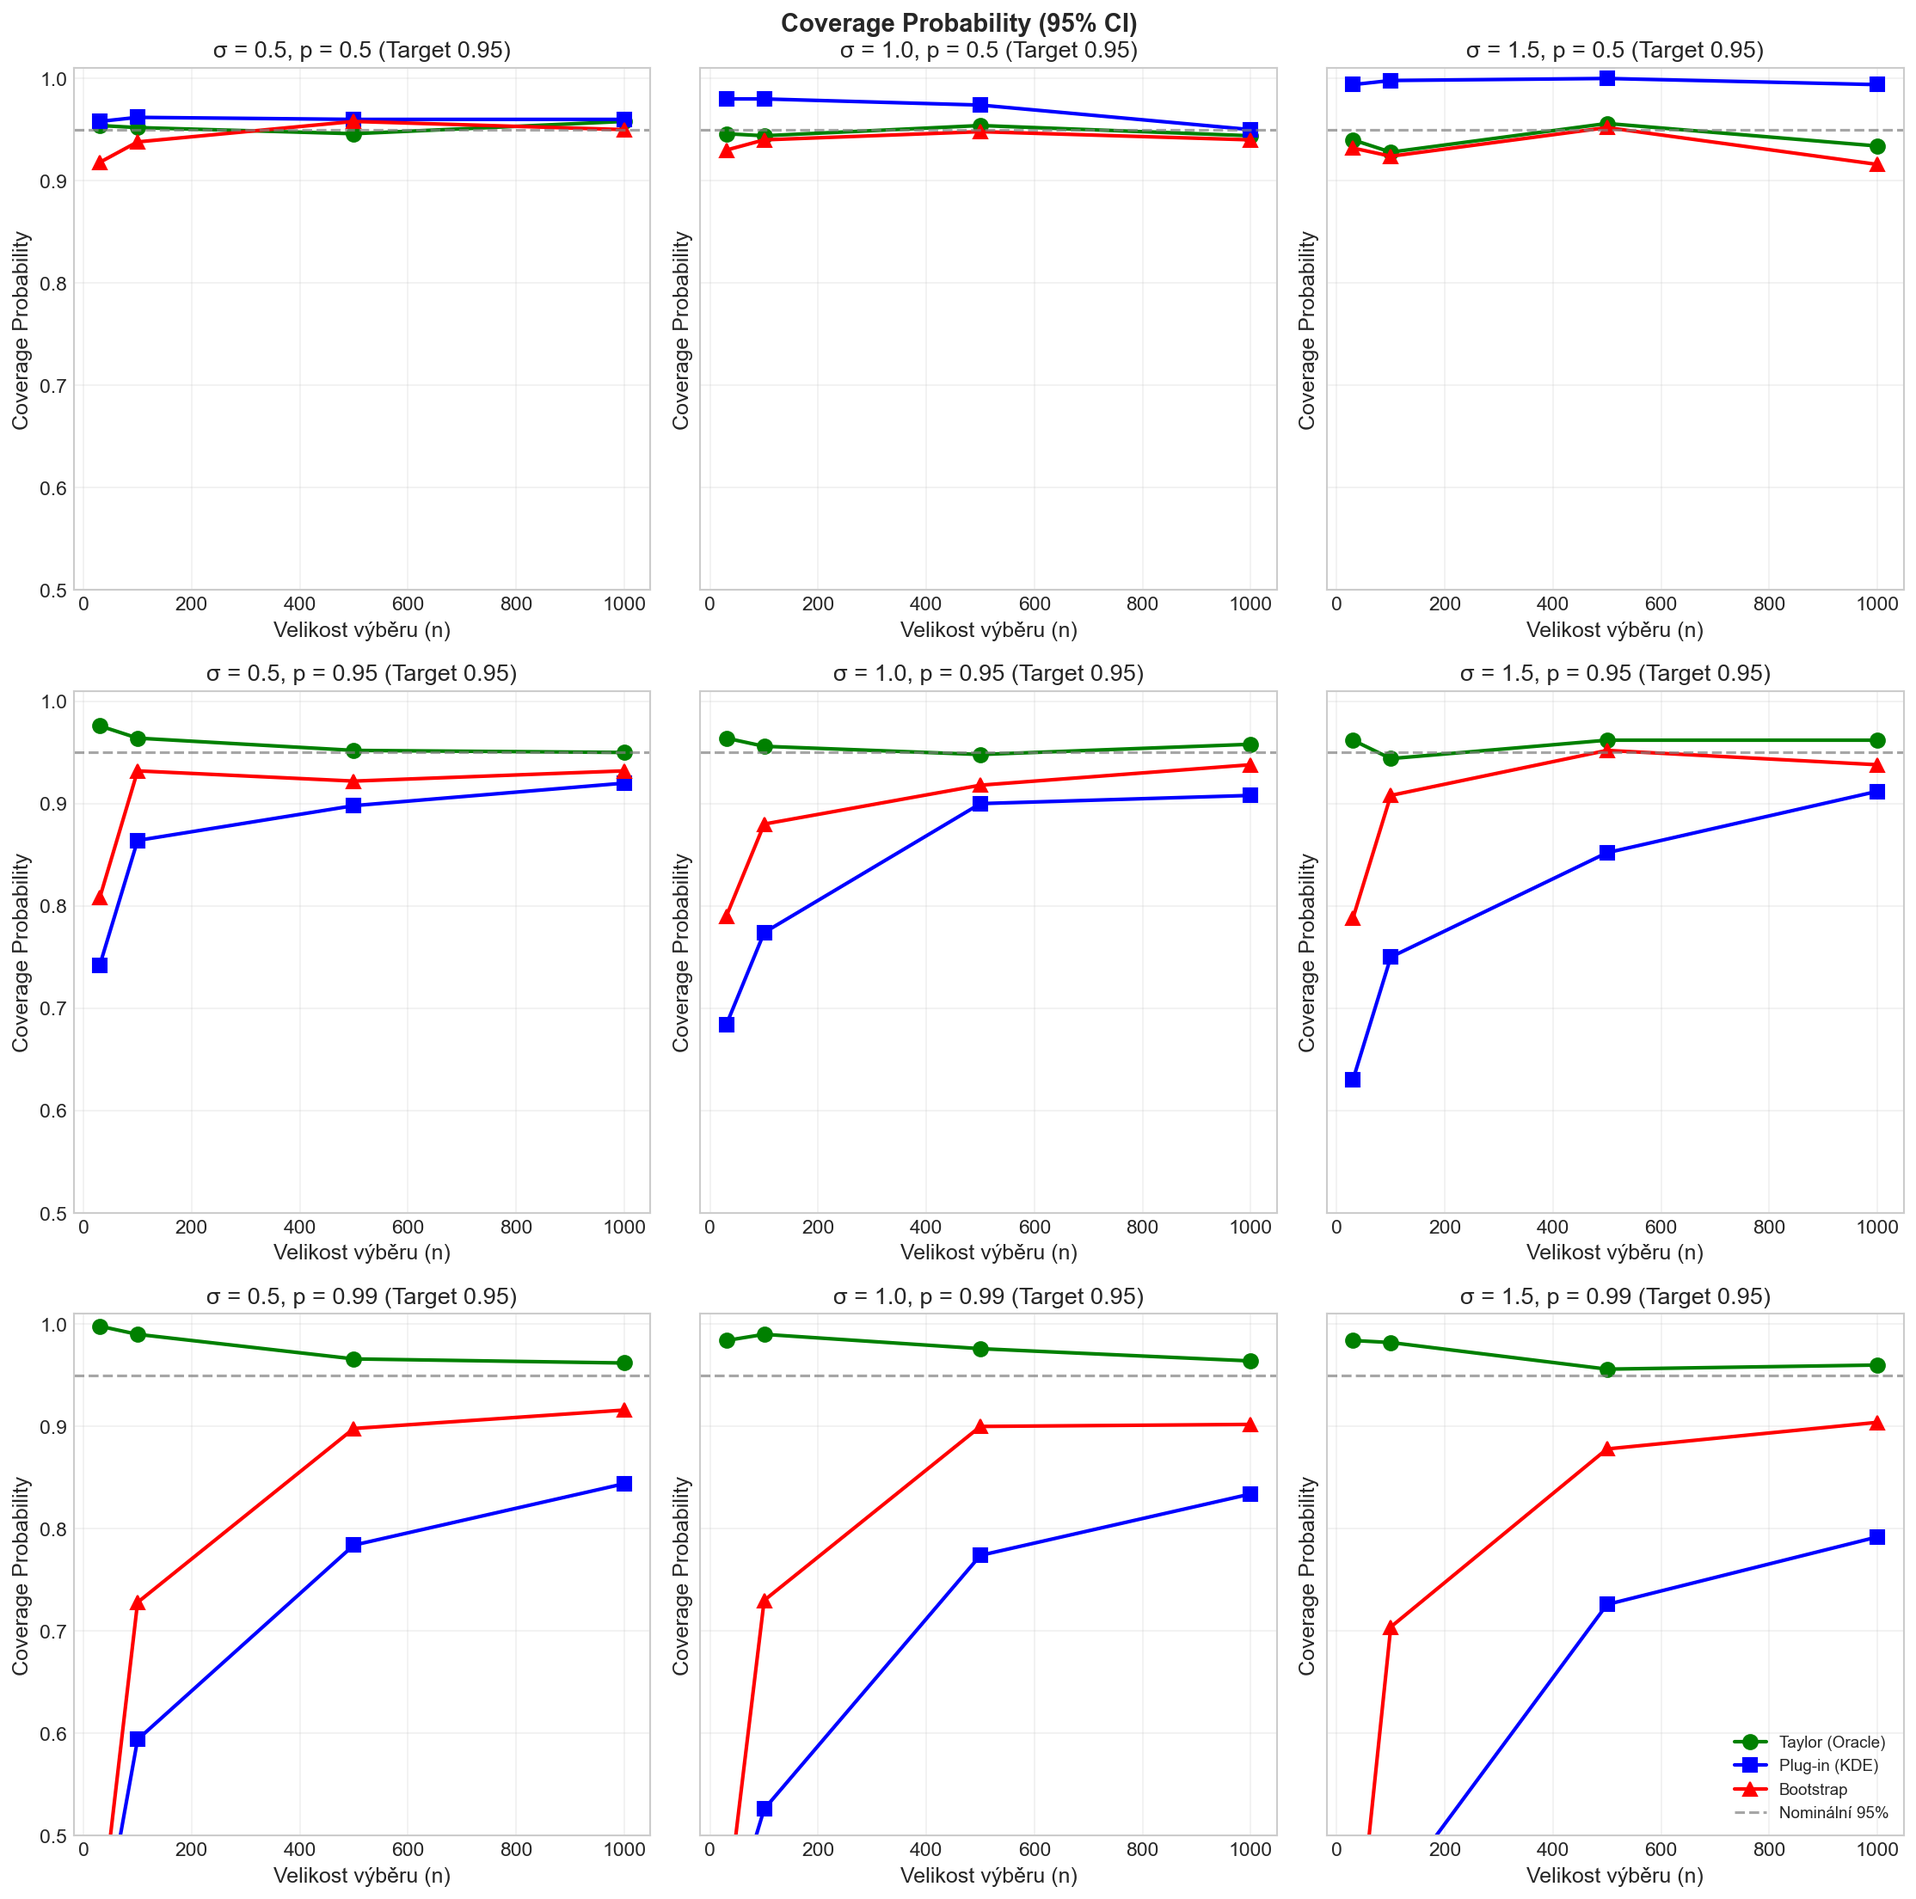
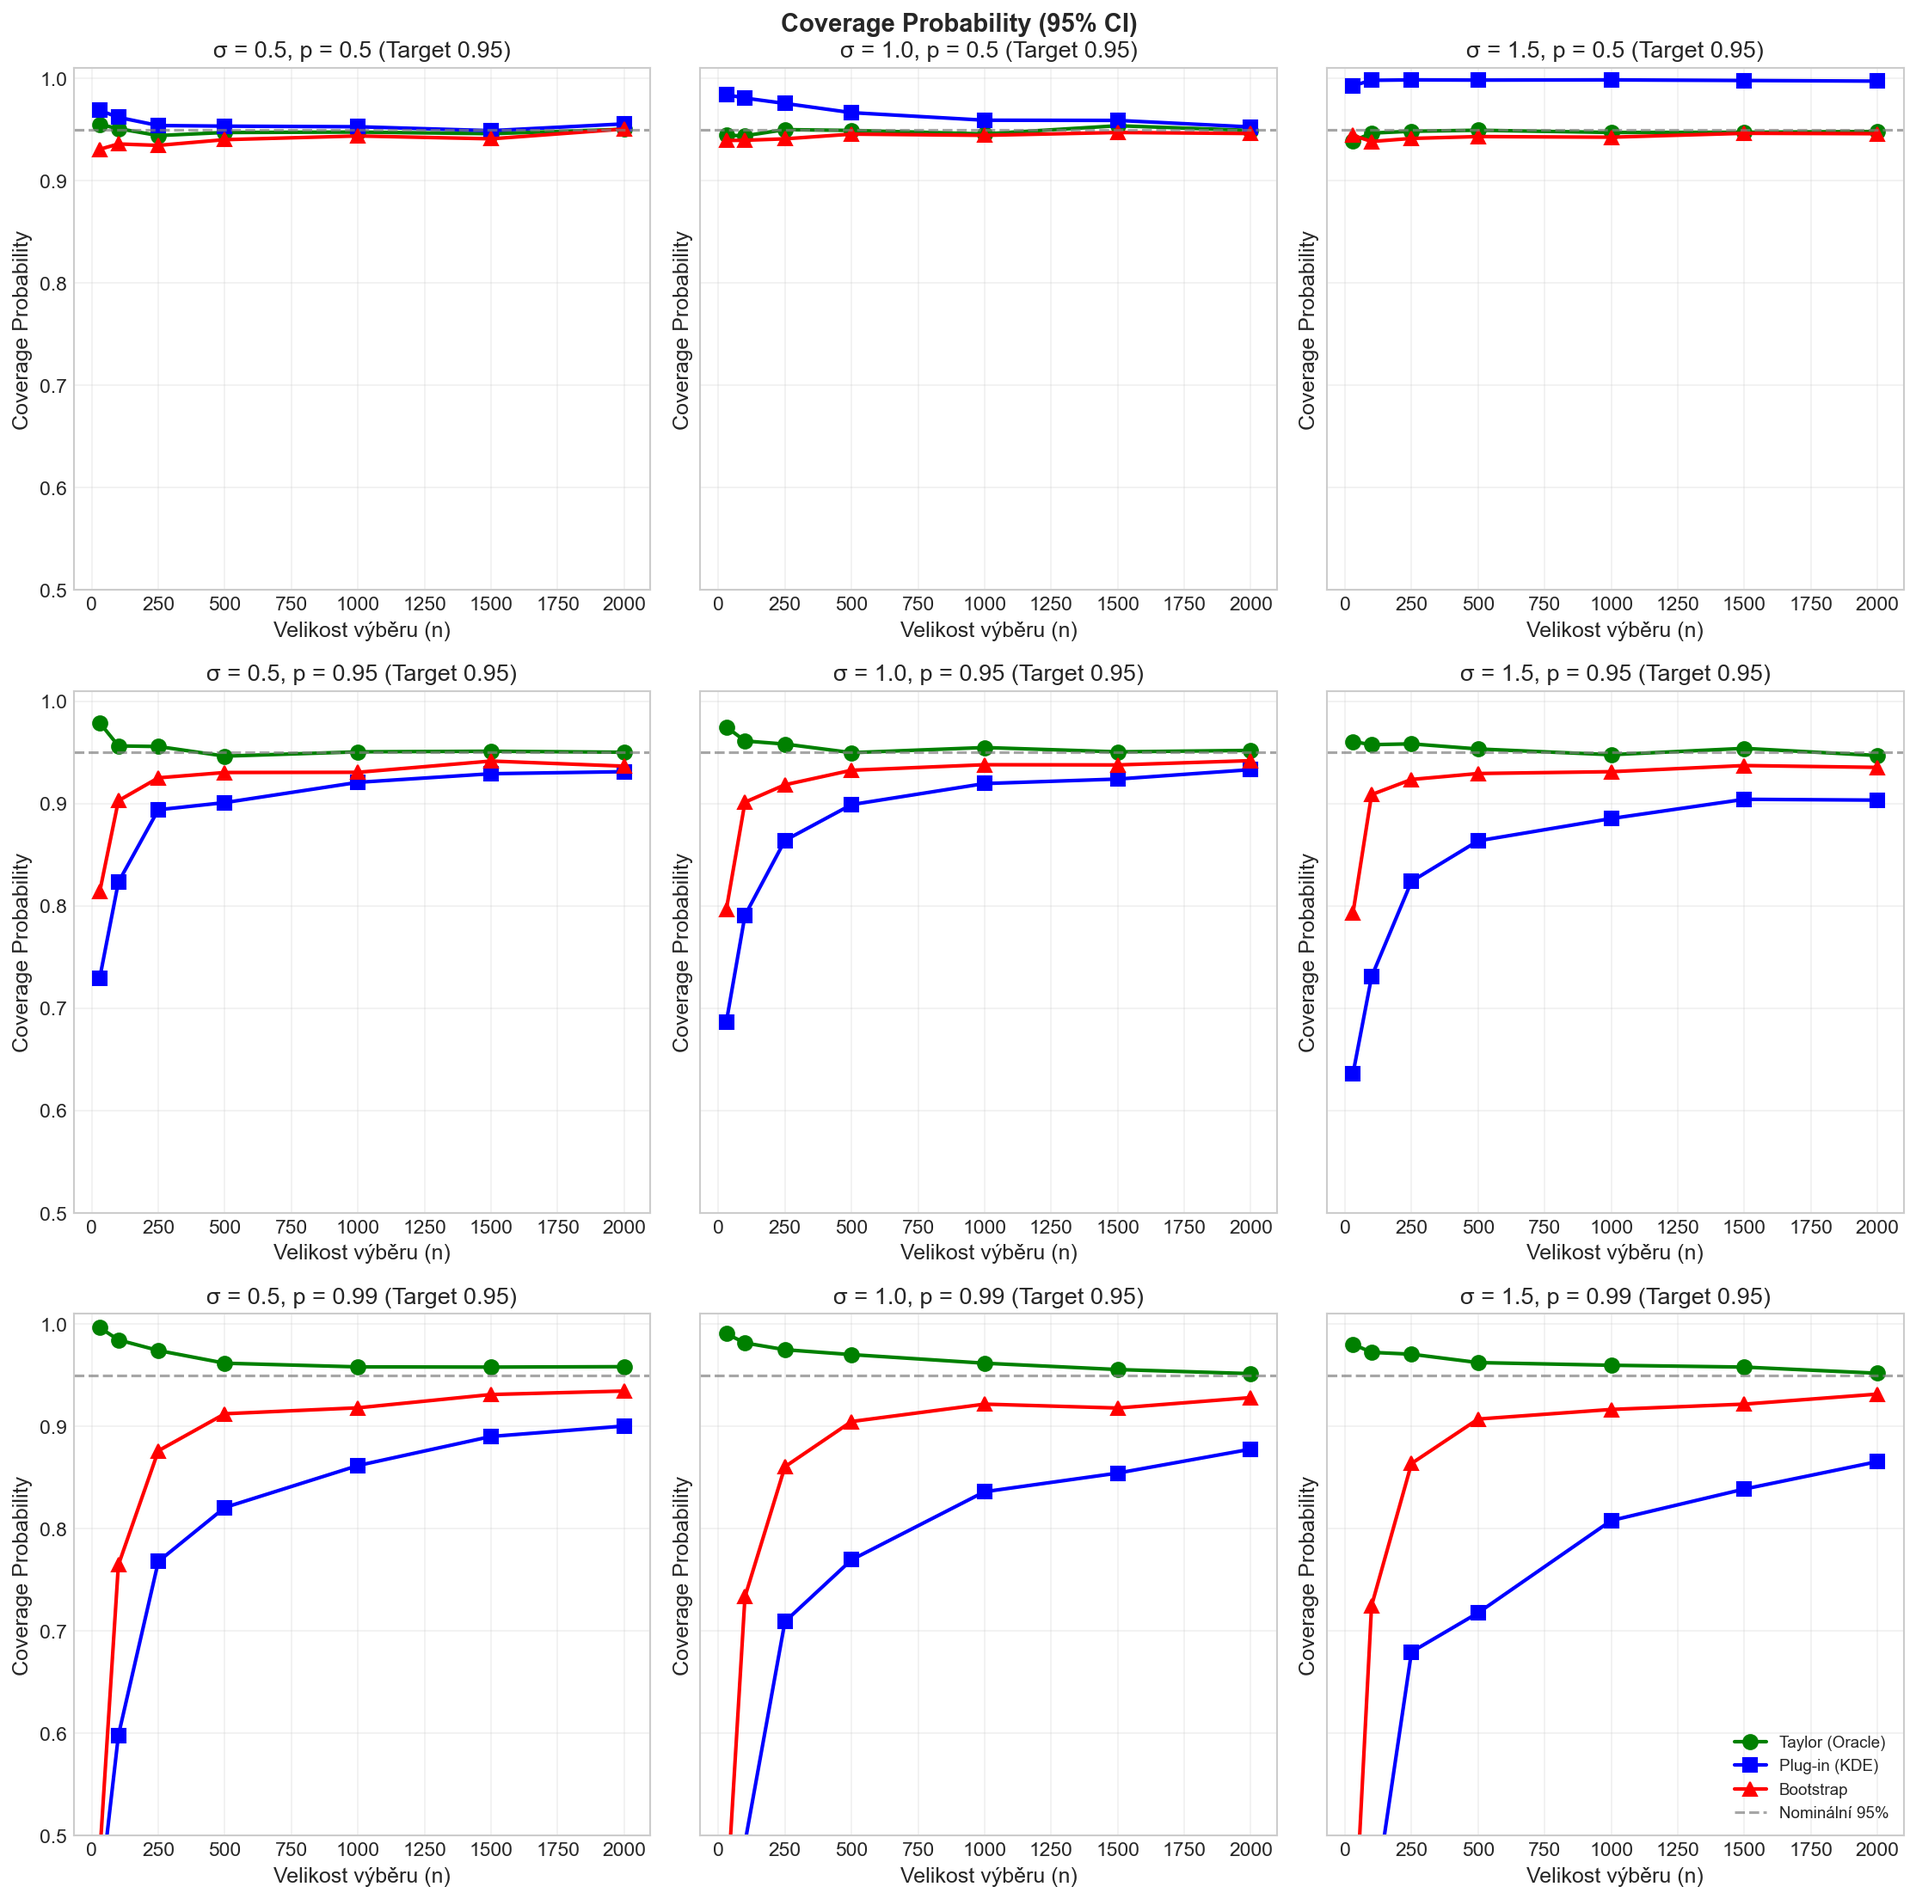
Run 5000 1000

diff --git a/semestralka/simulace/sim_final.py b/semestralka/simulace/sim_final.py
@@ -64,12 +64,12 @@ def estimate_variance_bootstrap(sample, p, B=1000):
         bootstrap_quantiles[b] = np.quantile(resample, p)
     return np.var(bootstrap_quantiles, ddof=1)
 
-SAMPLE_SIZES = [30, 100, 500, 1000]
+SAMPLE_SIZES = [30, 100, 250, 500, 1000, 1500, 2000]
 SIGMA_VALUES = [0.5, 1.0, 1.5]
 QUANTILE_LEVELS = [0.5, 0.95, 0.99]
 MU = 0
-M = 500
-B = 100
+M = 5000
+B = 1000
 
 def run_simulation(n, sigma, p, M, B, mu=0):
     true_quantile = lognormal_quantile(p, mu, sigma)
